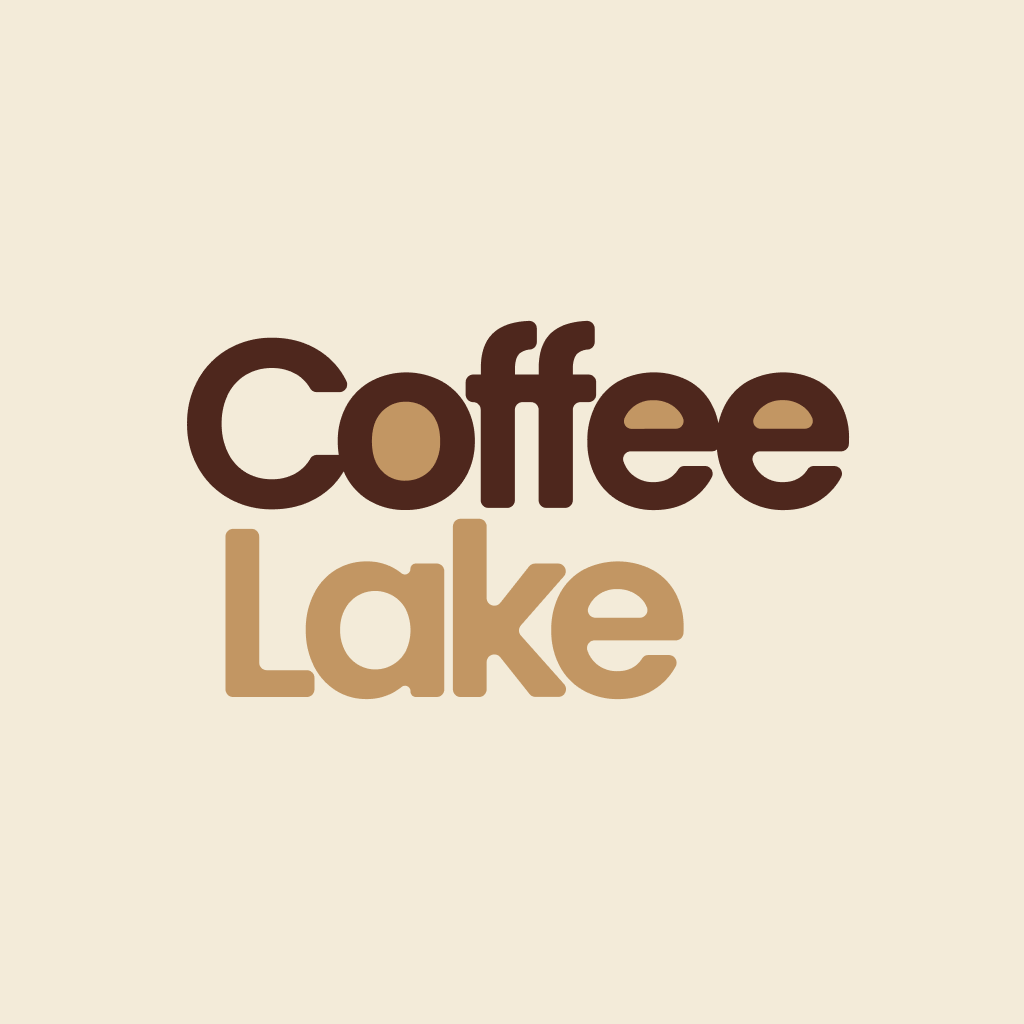
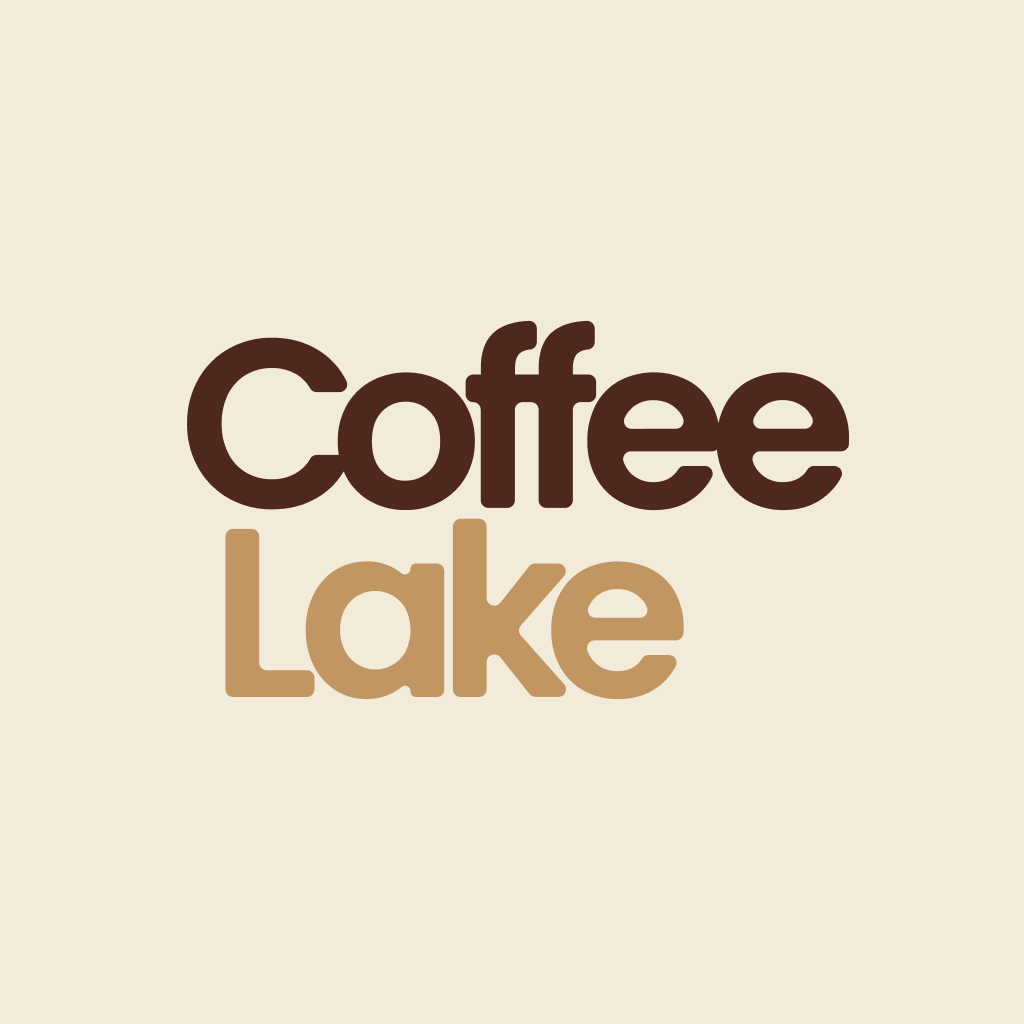
:bento: update assets

Changed region(s): [[0.3438, 0.375, 0.4375, 0.4688], [0.7188, 0.375, 0.8125, 0.4375], [0.5938, 0.375, 0.6875, 0.4375]]

diff --git a/readme.md b/readme.md
@@ -1,15 +1,12 @@
 <!--
 <h1 align="center">
   <br>
-  <img src="https://github.com/rafaeldellaquila/plantmanager/blob/main/assets/logotype.png?raw=true" alt="Plant Manager" width="200">
+  <img src="https://github.com/rafaeldellaquila/coffeelake/blob/main/src/assets/coffeelake_horizontal.svg?raw=true" alt="Coffee Lake" width="300">
 </h1>
- -->
-
-# CoffeeLake
-
-<p align="center">Make better coffees w/ the best app.</p>
+-->
+<p align="center">New application for coffee lover learn about it . making new recipes and courses. all in one place.</p>
 - Wip Readme
-<!--
+
 <p align="center">
   <a href="https://opensource.org/licenses/GPL-3.0">
     <img src="https://img.shields.io/github/license/rafaeldellaquila/podcastr-web?style=flat-square" alt="License GPL">
@@ -18,6 +15,7 @@
 
 [//]: #
 
+<!--
 <div align="center">
   <img src="https://i.ibb.co/DgNtq3v/plantmanager.gif" alt="plantmanager" border="0" width="250">
 </div>
